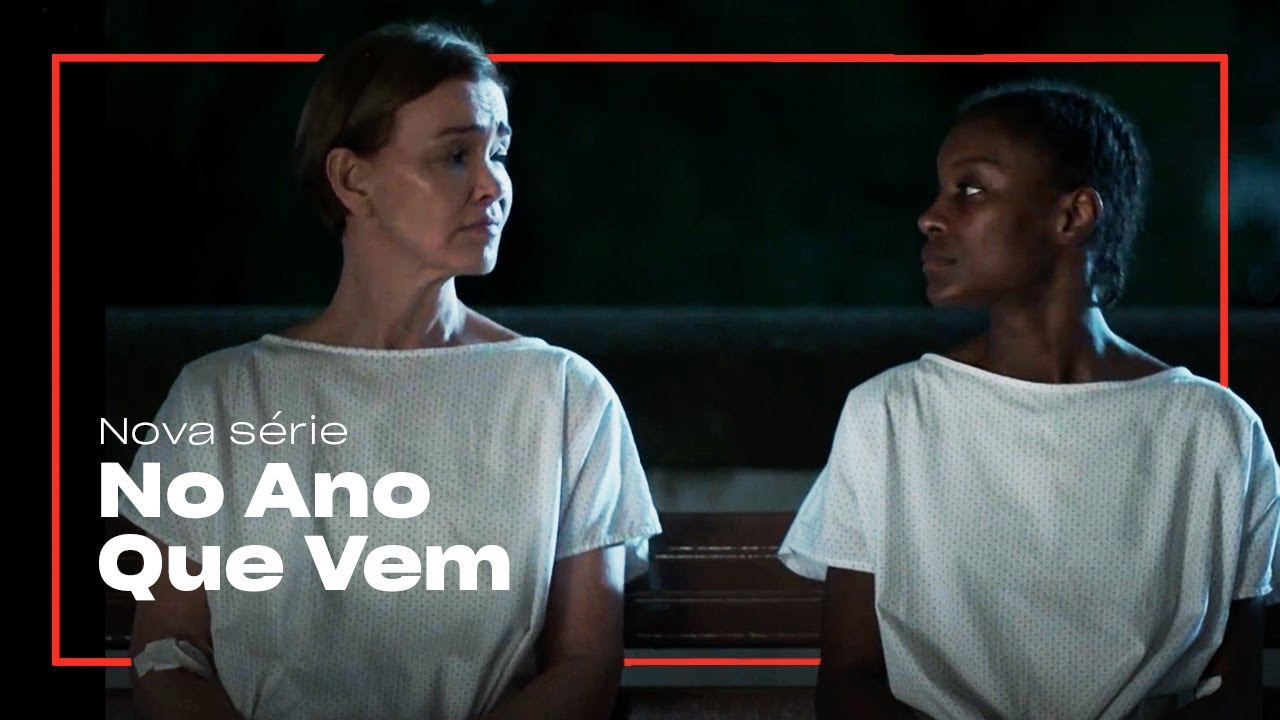
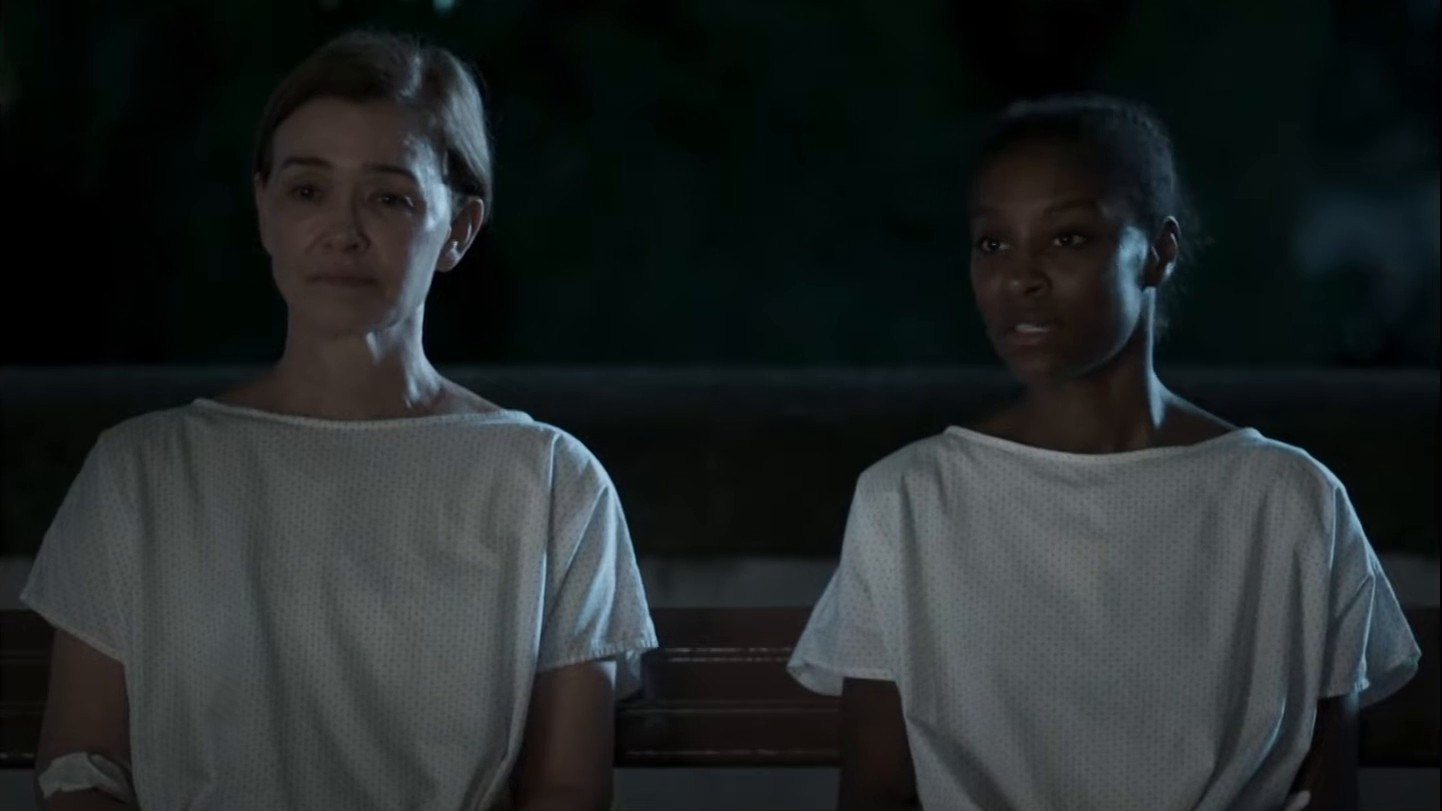
fix: use clean footage frames for the two promo-card thumbnails
No Ano Que Vem and Caravana das Drags were YouTube promo thumbnails with
marketing text burned into the pixels (a red rectangle and "Nova série",
"TRAILER OFICIAL"), which made them read as a different kind of tile than
the other eight. Replace both with clean frames taken from their own linked
videos, and drop the pillarbox bars on the Canal Brasil master.

diff --git a/src/data/portfolioData.ts b/src/data/portfolioData.ts
@@ -239,9 +239,9 @@ const projects: Project[] = [
     media: {
       image: {
         src: "/images/projetos/no-ano-que-vem.jpg",
-        alt: "Cena oficial da série No Ano que Vem no Canal Brasil",
-        width: 1280,
-        height: 720,
+        alt: "Ana (Júlia Lemmertz) e Bel (Jeniffer Dias) lado a lado num banco de jardim à noite na série No Ano Que Vem",
+        width: 1442,
+        height: 811,
         kind: "frame",
         focalPoint: "50% 50%",
       },
@@ -255,6 +255,10 @@ const projects: Project[] = [
     },
     featuredOrder: 5,
     actionLabel: "Ver projeto",
+    sourceNotes: [
+      "A imagem é um frame limpo do próprio vídeo vinculado (3TLBYamEUDA), sem a arte de divulgação que estava antes.",
+      "O teaser inteiro é uma única cena noturna, por isso a vinheta continua escura nas bordas.",
+    ],
   }),
 
   project({
@@ -285,9 +289,9 @@ const projects: Project[] = [
     media: {
       image: {
         src: "/images/projetos/caravana-das-drags.jpg",
-        alt: "Frame oficial do reality show Caravana das Drags no Amazon Prime Video",
-        width: 1280,
-        height: 720,
+        alt: "Ônibus rosa da Caravana das Drags atravessa a orla do Rio de Janeiro ao pôr do sol, com o Pão de Açúcar ao fundo",
+        width: 1920,
+        height: 1080,
         kind: "frame",
         focalPoint: "50% 50%",
       },
@@ -301,6 +305,9 @@ const projects: Project[] = [
     },
     featuredOrder: 6,
     actionLabel: "Ver projeto",
+    sourceNotes: [
+      "A imagem é um frame do próprio trailer vinculado (p6gZkT7PI5U), sem o letreiro de divulgação que estava antes.",
+    ],
   }),
 
   project({
